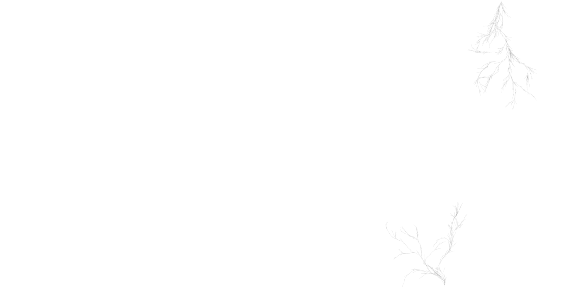
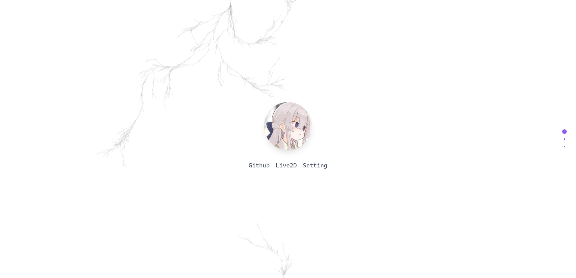
update

diff --git a/views/background/WebGL.js b/views/background/WebGL.js
@@ -1,0 +1,280 @@
+"use client";
+import React, { memo, useEffect } from "react";
+
+const webGl = memo(() => {
+  useEffect(() => {
+    const vertexShaderSource = `
+   attribute vec2 position;
+   void main() {
+     gl_Position = vec4(position, 0.0, 1.0);
+   }
+ `;
+
+    const fragmentShaderSource = `
+      precision highp float;
+
+      uniform float theme;
+
+      uniform vec3 w_colour1;
+      uniform vec3 w_colour2;
+      uniform vec3 w_colour3;
+      uniform vec3 w_colour4;
+
+      uniform vec3 b_colour1;
+      uniform vec3 b_colour2;
+      uniform vec3 b_colour3;
+      uniform vec3 b_colour4;
+
+      uniform int contrast;
+      uniform float gradual;
+      uniform float width1;
+      uniform float width2;
+      uniform float scale1;
+      uniform float scale2;
+      uniform vec2 offset;
+      uniform float intensity;
+      uniform float spin_speed;
+      uniform float spin_amount;
+      uniform float time;
+      uniform float canvas_width; // 新增画布宽度uniform变量
+      uniform float canvas_height; // 新增画布高度uniform变量
+
+      void main() {
+        vec3 colour1 = mix(w_colour1, b_colour1, theme);
+        vec3 colour2 = mix(w_colour2, b_colour2, theme);
+        vec3 colour3 = mix(w_colour3, b_colour3, theme);
+        vec3 colour4 = mix(w_colour4, b_colour4, theme);
+
+        float speed = time * spin_speed;
+        // 无拉伸屏幕 UV;
+        vec2 uv = gl_FragCoord.xy / canvas_height;
+        // 居中 UV
+        float center = canvas_width / canvas_height;
+        uv.y -= 0.5;
+        uv.x -= 0.5 * center;
+        uv *= 2.0;
+        uv += offset;
+        float uv_len = length(uv);
+        // 获得角度信息
+        float angle = atan(uv.y, uv.x);
+        // 根据距离衰减旋转
+        angle -= spin_amount * uv_len;
+        // 角度旋转动画
+        angle += speed;
+        // 根据距离应用旋转
+        uv = vec2(uv_len * cos(angle), uv_len * sin(angle)) * scale2;
+        // UV 扭曲效果
+        uv *= scale1;
+        vec2 uv2 = vec2(uv.x + uv.y);
+        for (int i = 0; i < 5; i++) {
+            uv2 += sin(uv);
+            uv += vec2(cos(intensity * uv2.y + speed), sin(intensity * uv2.x - speed));
+            uv -= cos(uv.x + uv.y) - sin(uv.x - uv.y);
+        }
+        // 强度值
+        float paint_res = smoothstep(0.0, gradual, length(uv) / scale1);
+        // 色块划分
+        float c3p = 1.0 - min(width2, abs(paint_res - 0.5)) * (1.0 / width2);
+        float c_out = max(0.0, (paint_res - (1.0 - width1))) * (1.0 / width1);
+        float c_in = max(0.0, -(paint_res - width1)) * (1.0 / width1);
+        float c4p = c_out + c_in;
+        // 颜色应用
+        vec3 ret_col = mix(colour1, colour2, paint_res);
+        ret_col = mix(ret_col, colour3, c3p);
+        ret_col = mix(ret_col, colour4, c4p);
+        gl_FragColor = vec4(ret_col * mix(uv_len / 2.0, 1.0, theme), 1.0);
+        // gl_FragColor = vec4(uv.y); // 纯红色
+      }
+    `;
+
+    const canvas = document.getElementById("webgl-canvas");
+    const gl = canvas.getContext("webgl");
+    function resizeCanvas() {
+      canvas.width = canvas.clientWidth;
+      canvas.height = canvas.clientHeight;
+      gl.viewport(0, 0, canvas.width, canvas.height);
+    }
+    window.addEventListener("resize", resizeCanvas);
+    resizeCanvas();
+
+    // 创建和编译着色器
+    const vertexShader = gl.createShader(gl.VERTEX_SHADER);
+    gl.shaderSource(vertexShader, vertexShaderSource);
+    gl.compileShader(vertexShader);
+
+    const fragmentShader = gl.createShader(gl.FRAGMENT_SHADER);
+    gl.shaderSource(fragmentShader, fragmentShaderSource);
+    gl.compileShader(fragmentShader);
+
+    // 创建程序对象并链接着色器
+    const program = gl.createProgram();
+    gl.attachShader(program, vertexShader);
+    gl.attachShader(program, fragmentShader);
+    gl.linkProgram(program);
+
+    // 检查链接是否成功
+    if (!gl.getProgramParameter(program, gl.LINK_STATUS)) {
+      console.error(
+        "Unable to link the shader program: " + gl.getProgramInfoLog(program)
+      );
+    }
+
+    if (!gl.getShaderParameter(vertexShader, gl.COMPILE_STATUS)) {
+      console.error(
+        "Failed to compile vertex shader: " + gl.getShaderInfoLog(vertexShader)
+      );
+    }
+
+    if (!gl.getShaderParameter(fragmentShader, gl.COMPILE_STATUS)) {
+      console.error(
+        "Failed to compile fragment shader: " +
+          gl.getShaderInfoLog(fragmentShader)
+      );
+    }
+
+    if (!gl.getProgramParameter(program, gl.LINK_STATUS)) {
+      console.error(
+        "Unable to link the shader program: " + gl.getProgramInfoLog(program)
+      );
+    }
+
+    // 使用程序对象
+    gl.useProgram(program);
+
+    // 设置顶点数据
+    const vertexData = new Float32Array([
+      -1.0,
+      1.0, // 第一个顶点
+      -1.0,
+      -1.0, // 第二个顶点
+      1.0,
+      -1.0, // 第三个顶点
+      1.0,
+      1.0, // 第四个顶点
+    ]);
+
+    // 设置变量
+    const uniformLocations = {
+      theme: gl.getUniformLocation(program, "theme"),
+      w_colour1: gl.getUniformLocation(program, "w_colour1"),
+      w_colour2: gl.getUniformLocation(program, "w_colour2"),
+      w_colour3: gl.getUniformLocation(program, "w_colour3"),
+      w_colour4: gl.getUniformLocation(program, "w_colour4"),
+
+      b_colour1: gl.getUniformLocation(program, "b_colour1"),
+      b_colour2: gl.getUniformLocation(program, "b_colour2"),
+      b_colour3: gl.getUniformLocation(program, "b_colour3"),
+      b_colour4: gl.getUniformLocation(program, "b_colour4"),
+
+      contrast: gl.getUniformLocation(program, "contrast"),
+      gradual: gl.getUniformLocation(program, "gradual"),
+      width1: gl.getUniformLocation(program, "width1"),
+      width2: gl.getUniformLocation(program, "width2"),
+      scale1: gl.getUniformLocation(program, "scale1"),
+      scale2: gl.getUniformLocation(program, "scale2"),
+      offset: gl.getUniformLocation(program, "offset"),
+      intensity: gl.getUniformLocation(program, "intensity"),
+      spin_speed: gl.getUniformLocation(program, "spin_speed"),
+      spin_amount: gl.getUniformLocation(program, "spin_amount"),
+      time: gl.getUniformLocation(program, "time"),
+      canvas_width: gl.getUniformLocation(program, "canvas_width"),
+      canvas_height: gl.getUniformLocation(program, "canvas_height"),
+    };
+
+    // 设置uniform变量的值
+    gl.uniform1f(uniformLocations.theme, 0);
+    gl.uniform3f(uniformLocations.w_colour1, 0.0, 0.427, 0.62);
+    gl.uniform3f(uniformLocations.w_colour2, 0.0, 0.63, 0.43);
+    gl.uniform3f(uniformLocations.w_colour3, 1.0, 1.0, 1.0);
+    gl.uniform3f(uniformLocations.w_colour4, 0.0, 0.0, 0.0);
+
+    // gl.uniform3f(uniformLocations.b_colour1, 167 / 255, 139 / 255, 250 / 255); // #a78bfa
+    // gl.uniform3f(uniformLocations.b_colour2, 167 / 255, 139 / 255, 250 / 255);
+    gl.uniform3f(uniformLocations.b_colour1, 129 / 255, 140 / 255, 248 / 255); // #818cf8
+    gl.uniform3f(uniformLocations.b_colour2, 129 / 255, 140 / 255, 248 / 255);
+    // gl.uniform3f(uniformLocations.b_colour1, 196 / 255, 181 / 255, 253 / 255); // #c4b5fd
+    // gl.uniform3f(uniformLocations.b_colour2, 196 / 255, 181 / 255, 253 / 255);
+    // gl.uniform3f(uniformLocations.b_colour1, 0.0, 0.42, 0.61);
+    // gl.uniform3f(uniformLocations.b_colour2, 0.0, 0.61, 0.57);
+    gl.uniform3f(uniformLocations.b_colour3, 1.0, 1.0, 1.0);
+    gl.uniform3f(uniformLocations.b_colour4, 1.0, 1.0, 1.0);
+
+    gl.uniform1i(uniformLocations.contrast, 5);
+    gl.uniform1f(uniformLocations.gradual, 2.0);
+    gl.uniform1f(uniformLocations.width1, 0.2);
+    gl.uniform1f(uniformLocations.width2, 0.1);
+    gl.uniform1f(uniformLocations.scale1, 10.0);
+    gl.uniform1f(uniformLocations.scale2, 1.0);
+    gl.uniform2f(uniformLocations.offset, 0.0, 0.0);
+    gl.uniform1f(uniformLocations.intensity, 0.2);
+    gl.uniform1f(uniformLocations.spin_speed, 0.1);
+    gl.uniform1f(uniformLocations.spin_amount, 1.5);
+    gl.uniform1f(uniformLocations.time, 1.0);
+    gl.uniform1f(uniformLocations.canvas_width, canvas.width);
+    gl.uniform1f(uniformLocations.canvas_height, canvas.height);
+
+    const vertexBuffer = gl.createBuffer();
+    gl.bindBuffer(gl.ARRAY_BUFFER, vertexBuffer);
+    gl.bufferData(gl.ARRAY_BUFFER, vertexData, gl.STATIC_DRAW);
+
+    const positionAttribLocation = gl.getAttribLocation(program, "position");
+    gl.vertexAttribPointer(
+      positionAttribLocation,
+      2, // 每个顶点有2个分量(x, y)
+      gl.FLOAT, // 数据类型是32位浮点数
+      false,
+      2 * Float32Array.BYTES_PER_ELEMENT, // 步长
+      0 // 偏移量
+    );
+    gl.enableVertexAttribArray(positionAttribLocation);
+
+    var a = 0;
+    var n_a = 0;
+
+    // 同步更新页面主题
+    window.addEventListener("storage", (event) => {
+      if (localStorage.getItem("pref-theme") === "dark") {
+        a = 0;
+      } else {
+        a = 1;
+      }
+    });
+    // 初始化
+    window.dispatchEvent(new Event("storage"));
+
+    // 清除画布并绘制三角形
+    function render() {
+      // 实时更新的值
+      gl.uniform1f(uniformLocations.time, performance.now() / 1000.0);
+      gl.uniform1f(uniformLocations.canvas_width, canvas.width);
+      gl.uniform1f(uniformLocations.canvas_height, canvas.height);
+      if (n_a == a) {
+        n_a = a;
+      } else {
+        n_a = lerpi(n_a, a, 0.4);
+      }
+      gl.uniform1f(uniformLocations.theme, n_a);
+
+      gl.clearColor(0.0, 0.0, 0.0, 1.0);
+      gl.clear(gl.COLOR_BUFFER_BIT);
+      gl.drawArrays(gl.TRIANGLE_FAN, 0, 4);
+      requestAnimationFrame(render);
+    }
+    render();
+    // 插值
+    function lerpi(a, b, t) {
+      return a + (b - a) * t;
+    }
+  }, []);
+
+  return (
+    <div id="webgl-container">
+      <canvas
+        id="webgl-canvas"
+        className="fixed top-0 left-0 w-full h-full -z-10"
+      ></canvas>
+    </div>
+  );
+});
+
+export default webGl;

diff --git a/views/setting/baseSetting.js b/views/setting/baseSetting.js
@@ -14,7 +14,7 @@ const changeIsCatalogClose = (checked) => {
   Cookies.set("isCatalogClose", String(checked), { expires: 365 });
 };
 
-const baseSetting = memo(({darkMode}) => {
+const baseSetting = memo(({ darkMode }) => {
   const router = useRouter();
 
   const isCatalogClose = !(Cookies.get("isCatalogClose") === "false");
@@ -86,6 +86,32 @@ const baseSetting = memo(({darkMode}) => {
               }}
             >
               <p className="my-0 text-lg font-medium">plum</p>
+            </Card>
+            <Card
+              cover={
+                <img
+                  alt="example"
+                  src="/img/vortex.png"
+                  className="my-[2px] mx-auto max-w-[98%]"
+                />
+              }
+              styles={{
+                cover: {
+                  width: "160px",
+                  height: "79.75px",
+                  overflow: "hidden",
+                  cursor: "pointer",
+                },
+                body: { padding: "12px 16px", cursor: "pointer" },
+              }}
+              classNames={{
+                body: "hover:text-violet-500 dark:hover:text-violet-500/80",
+              }}
+              onClick={() => {
+                changeTheme("vortex");
+              }}
+            >
+              <p className="my-0 text-lg font-medium">vortex</p>
             </Card>
             <Card
               cover={

diff --git a/app/layout.js b/app/layout.js
@@ -1,8 +1,9 @@
 import dynamic from "next/dynamic";
 import { AntdRegistry } from "@ant-design/nextjs-registry";
 
-import Sky from "@/views/Sky";
-import Plum from "@/views/Plum";
+import Sky from "@/views/background/Sky";
+import Plum from "@/views/background/Plum";
+import WebGL from "@/views/background/WebGL";
 const Live2d = dynamic(() => import("../views/Live2d"), {
   ssr: false,
 });
@@ -38,6 +39,7 @@ export default function RootLayout({ children }) {
           {
             sky: <Sky />,
             plum: <Plum />,
+            vortex: <WebGL />,
             null: <></>,
           }[theme]
         }

diff --git a/views/setting/live2dSetting.js b/views/setting/live2dSetting.js
@@ -25,7 +25,7 @@ const keyMap = {
   GirlsFrontline: "少女前线",
   Sin: "sin 七大罪～魔王崇拜～",
   VenusScramble: "女神大乱战",
-  StarRail: "崩坏: 星穷铁道",
+  StarRail: "崩坏: 星穹铁道",
   shuangshengshijie: "双生视界 少女咖啡枪",
 };
 

diff --git a/README.md b/README.md
@@ -38,6 +38,8 @@ npm run dev
 
 # 预览
 
-![](https://github.com/kisssssssss/docs/blob/main/public/img/1.png)
+![](https://github.com/kisssssssss/docs/blob/main/public/img/plum.png)
 
-![](https://github.com/kisssssssss/docs/blob/main/public/img/2.png)
+![](https://github.com/kisssssssss/docs/blob/main/public/img/sky.png)
+
+![](https://github.com/kisssssssss/docs/blob/main/public/img/vortex.png)
